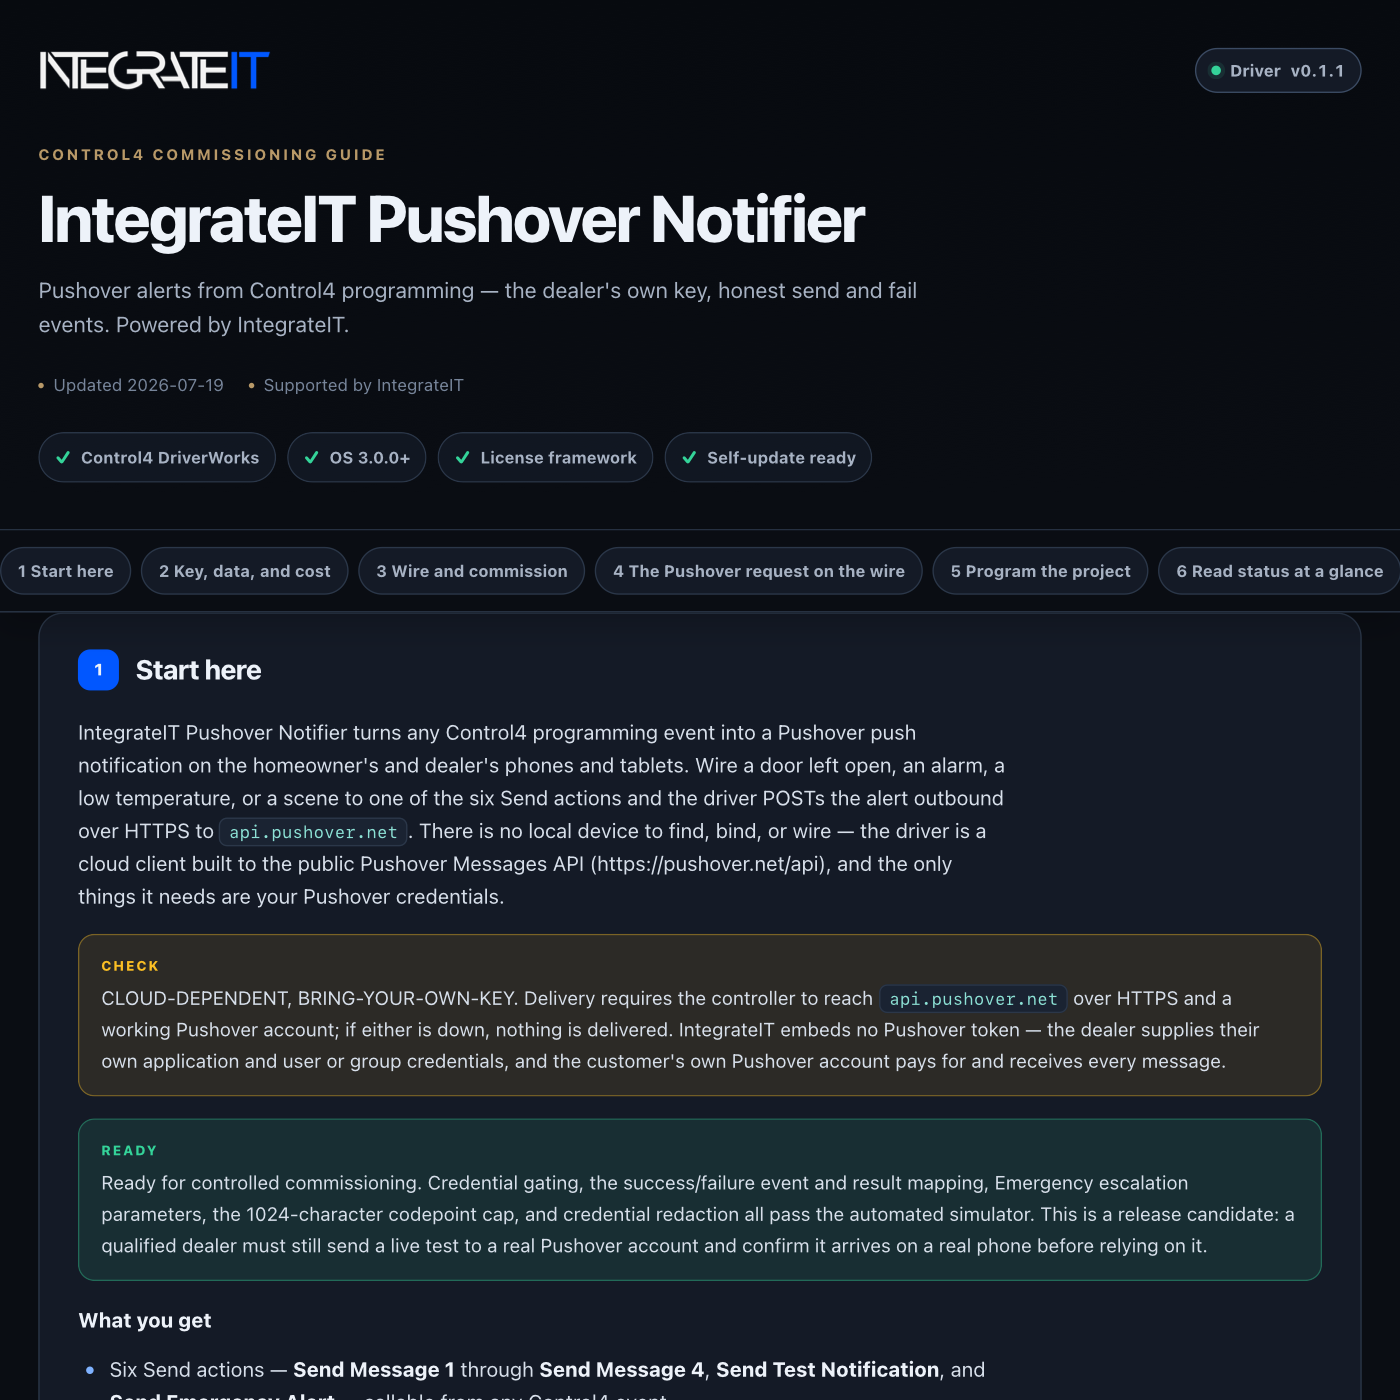
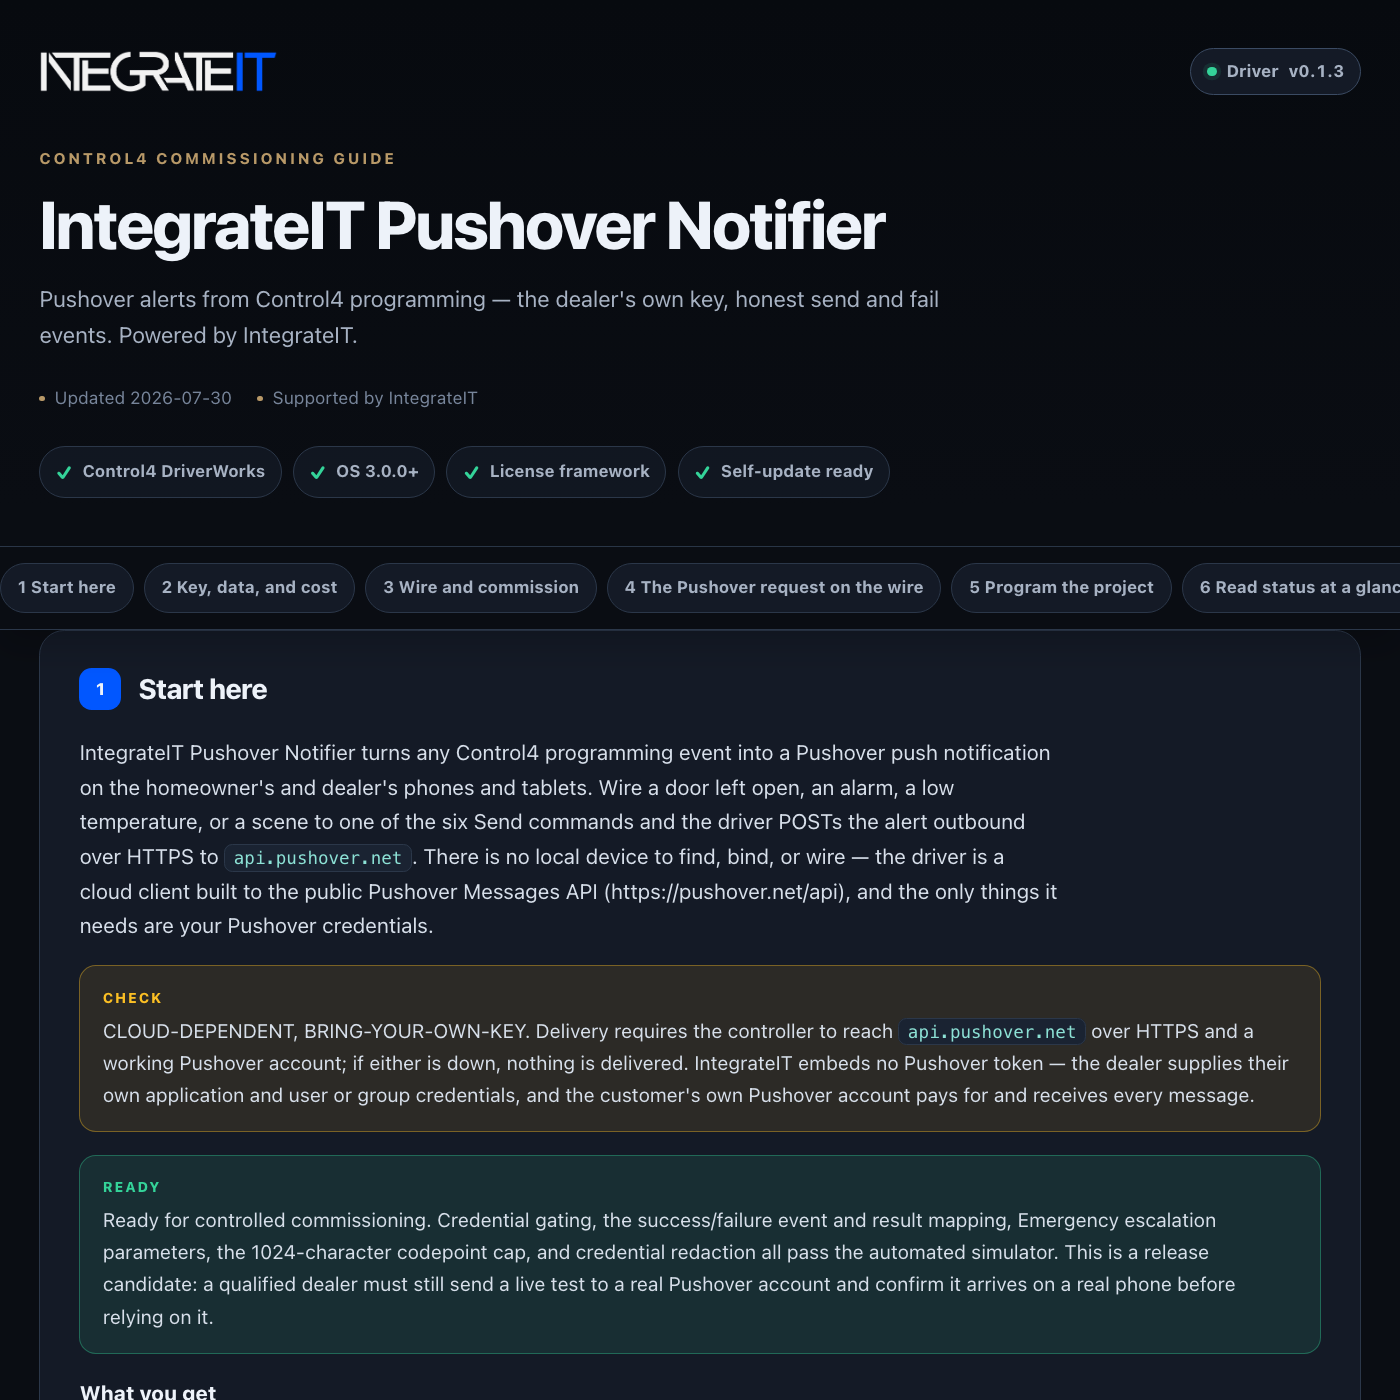
control4: publish driver channel (integrateit_push_pushover 0.1.4)

diff --git a/control4/integrateit_push_pushover/documentation.html b/control4/integrateit_push_pushover/documentation.html
@@ -179,13 +179,13 @@ td code{white-space:normal}
     <div class="wrap">
       <div class="brandbar">
[1 lines of base64/hex data omitted]
-        <span class="version"><span class="word">Driver</span> v0.1.3</span>
+        <span class="version"><span class="word">Driver</span> v0.1.4</span>
       </div>
       <p class="eyebrow">Control4 commissioning guide</p>
       <h1>IntegrateIT Pushover Notifier</h1>
       <p class="sub">Pushover alerts from Control4 programming — the dealer's own key, honest send and fail events. Powered by IntegrateIT.</p>
       <div class="meta">
-        <span>Updated 2026-07-30</span>
+        <span>Updated 2026-07-31</span>
         <span>Supported by IntegrateIT</span>
       </div>
       <div class="readiness" aria-label="Driver capabilities">
@@ -204,12 +204,12 @@ td code{white-space:normal}
   <main class="wrap">
     <section class="card" id="overview" data-card="overview">
   <h2><span class="n">1</span> Start here</h2>
-  <p>IntegrateIT Pushover Notifier turns any Control4 programming event into a Pushover push notification on the homeowner's and dealer's phones and tablets. Wire a door left open, an alarm, a low temperature, or a scene to one of the six Send actions and the driver POSTs the alert outbound over HTTPS to <code>api.pushover.net</code>. There is no local device to find, bind, or wire — the driver is a cloud client built to the public Pushover Messages API (https://pushover.net/api), and the only things it needs are your Pushover credentials.</p>
+  <p>IntegrateIT Pushover Notifier turns any Control4 programming event into a Pushover push notification on the homeowner's and dealer's phones and tablets. Wire a door left open, an alarm, a low temperature, or a scene to one of the six Send commands and the driver POSTs the alert outbound over HTTPS to <code>api.pushover.net</code>. There is no local device to find, bind, or wire — the driver is a cloud client built to the public Pushover Messages API (https://pushover.net/api), and the only things it needs are your Pushover credentials.</p>
   <div class="note warn">CLOUD-DEPENDENT, BRING-YOUR-OWN-KEY. Delivery requires the controller to reach <code>api.pushover.net</code> over HTTPS and a working Pushover account; if either is down, nothing is delivered. IntegrateIT embeds no Pushover token — the dealer supplies their own application and user or group credentials, and the customer's own Pushover account pays for and receives every message.</div>
   <div class="note good">Ready for controlled commissioning. Credential gating, the success/failure event and result mapping, Emergency escalation parameters, the 1024-character codepoint cap, and credential redaction all pass the automated simulator. This is a release candidate: a qualified dealer must still send a live test to a real Pushover account and confirm it arrives on a real phone before relying on it.</div>
   <p><b>What you get</b></p>
   <ul>
-    <li>Six Send actions — <b>Send Message 1</b> through <b>Send Message 4</b>, <b>Send Test Notification</b>, and <b>Send Emergency Alert</b> — callable from any Control4 event</li>
+    <li>Six sends — <b>Send Message 1</b> through <b>Send Message 4</b>, <b>Send Test Notification</b>, and <b>Send Emergency Alert</b> — each published twice: as a Composer <b>programming command</b> you wire to any Control4 event, and as an <b>Actions tab</b> button you can click while commissioning</li>
     <li>Four saved message slots — <b>Message 1 Title</b> / <b>Message 1 Body</b> through <b>Message 4 Title</b> / <b>Message 4 Body</b> — with a <b>Default Title</b> fallback when a slot's title is blank</li>
     <li>Five priority levels (<b>Lowest</b>, <b>Low</b>, <b>Normal</b>, <b>High</b>, <b>Emergency</b>) selected once in <b>Default Priority</b>, and one <b>Default Sound</b> applied to every send</li>
     <li>Emergency (priority 2) escalation that repeats until acknowledged, tuned by <b>Emergency Retry (s)</b> and <b>Emergency Expire (s)</b></li>
@@ -226,7 +226,7 @@ td code{white-space:normal}
     <li><b>Whose key.</b> The dealer registers a Pushover application to get an <b>Application API Token</b> and copies a <b>User or Group Key</b> for the recipients. Both are 30-character letters-and-digits strings, stored as password properties, and validated before every send. IntegrateIT ships no credential of its own.</li>
     <li><b>What leaves the LAN.</b> Each Send makes one outbound HTTPS POST to <code>api.pushover.net</code> carrying the token, the user or group key, the message body, the title, the numeric priority, the sound, and — for Emergency only — the retry and expire values. The message text you configure transits Pushover's servers to reach the phones. Nothing else from the project is sent: no other device state, no Control4 credentials, no project identity.</li>
     <li><b>Who pays.</b> The customer's own Pushover account. Pushover's free tier allows 10,000 messages per user per month; anything beyond that is the account holder's concern, not this driver's.</li>
-    <li><b>What "Sent" means.</b> Success is strictly HTTP 200 with <code>"status":1</code> in the response — Pushover *accepted* the message. <b>Last Notification</b> reads <code>Sent</code> at that point. That is not proof the phone displayed it, that Do Not Disturb let it through, or that a person read it; the accept response carries none of that and this driver claims none of it. For an Emergency alert, <code>Sent</code> likewise does not mean acknowledged — only Pushover's own app tracks the acknowledgement that stops the re-alerts. Anything claiming delivery-to-eyeballs would be faking it.</li>
+    <li><b>What "Sent" means.</b> Success is strictly HTTP 200 with <code>"status":1</code> in the response — Pushover <i>accepted</i> the message. <b>Last Notification</b> reads <code>Sent</code> at that point. That is not proof the phone displayed it, that Do Not Disturb let it through, or that a person read it; the accept response carries none of that and this driver claims none of it. For an Emergency alert, <code>Sent</code> likewise does not mean acknowledged — only Pushover's own app tracks the acknowledgement that stops the re-alerts. Anything claiming delivery-to-eyeballs would be faking it.</li>
     <li><b>Redaction.</b> Credentials are sent but never logged. Debug output carries only the title, the numeric priority, and the encoded byte count. The driver's configuration print reports token and key presence and format validity, never the values themselves.</li>
   </ul>
 </section>
@@ -238,7 +238,7 @@ td code{white-space:normal}
     <li>Add <b>IntegrateIT Pushover Notifier</b> to any room — there is no binding or serial port to wire. Paste the token into <b>Application API Token</b> and the recipient key into <b>User or Group Key</b>. Both are stored as passwords. The driver Status line reads <code>Ready</code> once both are present and well-formed, or <code>Credentials look malformed (expect 30 letters/digits)</code> if a paste is the wrong length or contains a stray character.</li>
     <li>Confirm the controller can reach the internet. This driver needs outbound HTTPS to <code>api.pushover.net</code>; there is nothing to reach on the LAN.</li>
     <li>Press <b>Send Test Notification</b>. A test push should arrive within seconds; <b>Last Notification</b> reads <code>Sent</code> on success or a short reason on failure. Watching that push land on a real phone is the step that proves the whole path — credentials, internet, and the recipient key — works.</li>
-    <li>Fill in the four slots (<b>Message 1–4 Title / Body</b>) with the alerts you want, then wire each Control4 event to the matching <b>Send Message N</b> action. A blank title falls back to <b>Default Title</b>; a blank body fails locally as an empty message rather than sending nothing.</li>
+    <li>Fill in the four slots (<b>Message 1–4 Title / Body</b>) with the alerts you want, then in Programming wire each Control4 event to the matching <b>Send Message N</b> command. A blank title falls back to <b>Default Title</b>; a blank body fails locally as an empty message rather than sending nothing.</li>
     <li>For a critical alert, use <b>Send Emergency Alert</b>. It reuses <b>Message 1 Body</b> at priority 2 and repeats until acknowledged; if Message 1 Body is blank it sends a built-in default so the most critical alert always delivers. Tune <b>Emergency Retry (s)</b> and <b>Emergency Expire (s)</b> for how often and how long Pushover re-alerts.</li>
   </ol>
   <div class="note">Setting <b>Default Priority</b> to Emergency makes every ordinary slot send repeat until acknowledged. <b>Send Test Notification</b> deliberately caps itself to High in that case, so commissioning never nags the homeowner's phone — but your wired slots will, so choose Emergency deliberately.</div>
@@ -260,11 +260,18 @@ token=&lt;app&gt;&amp;user=&lt;key&gt;&amp;message=&lt;text&gt;&amp;title=&lt;t&
     <tr><td><code>retry</code> / <code>expire</code></td><td><b>Emergency Retry (s)</b> / <b>Emergency Expire (s)</b></td><td>Appended only for priority 2</td></tr>
   </table>
   <p>Success is strictly HTTP 200 with a <code>"status":1</code> body → <b>Notification Sent</b> and <b>Last Notification</b> <code>Sent</code>. Any other code or status fails: <b>Notification Failed</b> fires and <b>Last Notification</b> reads <code>Failed: HTTP &lt;code&gt;</code>. Two failures never reach the wire — the driver catches them locally and records <code>Failed: invalid credentials</code> (a token or key that is not 30 letters/digits) or <code>Failed: empty message</code>, so a guaranteed rejection never burns a round-trip.</p>
-  <p>Emergency (priority 2) is the one path that carries <code>retry</code> and <code>expire</code>, which the API requires there. <b>Emergency Retry (s)</b> clamps to 30–300 and <b>Emergency Expire (s)</b> to 60–10800; expire is additionally raised to at least the retry value, because an expire below retry would let Pushover re-alert only once and defeat the escalation. The message cap is 1024 UTF-8 *codepoints*, truncated on a codepoint boundary — never mid-character — so non-Latin text is neither corrupted nor silently over-truncated.</p>
+  <p>Emergency (priority 2) is the one path that carries <code>retry</code> and <code>expire</code>, which the API requires there. <b>Emergency Retry (s)</b> clamps to 30–300 and <b>Emergency Expire (s)</b> to 60–10800; expire is additionally raised to at least the retry value, because an expire below retry would let Pushover re-alert only once and defeat the escalation. The message cap is 1024 UTF-8 <i>codepoints</i>, truncated on a codepoint boundary — never mid-character — so non-Latin text is neither corrupted nor silently over-truncated.</p>
 </section>
 
 <section class="card" id="programming" data-card="programming">
   <h2><span class="n">5</span> Program the project</h2>
+  <p>Each send exists in two places, and they run the same code. The <b>command</b> is what Composer Programming issues when your event fires; the identically named <b>Actions tab</b> button is what you click by hand while commissioning. Wire the command; use the button to prove it.</p>
+  <table>
+    <tr><th>Command (Programming)</th><th>What it sends</th></tr>
+    <tr><td>Send Message 1 … Send Message 4</td><td>The matching slot — <b>Message N Body</b> with <b>Message N Title</b> (or <b>Default Title</b> when the title is blank) — at <b>Default Priority</b></td></tr>
+    <tr><td>Send Test Notification</td><td>The <b>Test Message</b> body, capped at High priority even when <b>Default Priority</b> is Emergency</td></tr>
+    <tr><td>Send Emergency Alert</td><td>The <b>Message 1</b> slot forced to priority 2, with <code>retry</code>/<code>expire</code>, re-alerting until acknowledged in the Pushover app</td></tr>
+  </table>
   <table>
     <tr><th>Event</th><th>Fires when</th></tr>
     <tr><td><code>Notification Sent</code></td><td>Pushover accepted a notification (HTTP 200, status 1)</td></tr>
@@ -280,7 +287,7 @@ token=&lt;app&gt;&amp;user=&lt;key&gt;&amp;message=&lt;text&gt;&amp;title=&lt;t&
     <li><b>When the security panel alarms → Send Emergency Alert.</b> Priority 2 re-alerts the phone until someone acknowledges it in the Pushover app — the right tool for an alert that must not be missed.</li>
     <li><b>When Notification Failed fires → light a fault indicator or fall back to another channel.</b> <code>LAST_STATUS</code> and <b>Last Notification</b> carry the reason (<code>HTTP 429</code>, <code>invalid credentials</code>, <code>empty message</code>) so programming can branch on why a critical alert did not go out.</li>
   </ul>
-  <p>The four <b>Send Message 1</b>–<b>Send Message 4</b> actions carry no per-action priority: they always send at whatever <b>Default Priority</b> holds. <b>Send Emergency Alert</b> always forces priority 2; <b>Send Test Notification</b> never escalates past High. Sends are gated by the license: with <b>License Enforcement</b> set to Strict an unlicensed controller sends nothing, while the default Lenient mode allows commissioning and keeps the nag on <b>License Status</b>.</p>
+  <p>The four <b>Send Message 1</b>–<b>Send Message 4</b> sends carry no per-send priority: they always go out at whatever <b>Default Priority</b> holds. <b>Send Emergency Alert</b> always forces priority 2; <b>Send Test Notification</b> never escalates past High. Sends are gated by the license: with <b>License Enforcement</b> set to Strict an unlicensed controller sends nothing, while the default Lenient mode allows commissioning and keeps the nag on <b>License Status</b>.</p>
 </section>
 
 <section class="card" id="status" data-card="status">
@@ -316,7 +323,7 @@ token=&lt;app&gt;&amp;user=&lt;key&gt;&amp;message=&lt;text&gt;&amp;title=&lt;t&
   <p>Lenient mode allows commissioning without an activated key and keeps <b>License Status</b> visible. Strict mode blocks all sends until the Ops Portal has minted and validated a key for that controller. Installing this package does not itself mint or activate a controller license.</p>
 <section class="card" id="reference" data-card="reference">
   <h2><span class="n">R</span> Reference</h2>
-  <p>Generated from the driver manifest at build time — always matches this build (v0.1.3).</p>
+  <p>Generated from the driver manifest at build time — always matches this build (v0.1.4).</p>
   <h3>Properties</h3>
   <table>
     <tr><th>Property</th><th>Type</th><th>Default</th><th>Description</th></tr>
@@ -352,6 +359,16 @@ token=&lt;app&gt;&amp;user=&lt;key&gt;&amp;message=&lt;text&gt;&amp;title=&lt;t&
     <tr><td><code>Automatic Update Check</code></td><td>LIST</td><td><code>Daily</code></td><td>One of: Daily · Off</td></tr>
     <tr><td><code>Update Available</code> <span class="pill blue">read-only</span></td><td>STRING</td><td><code>None</code></td><td></td></tr>
     <tr><td><code>About</code> <span class="pill blue">read-only</span></td><td>STRING</td><td><code>Powered by IntegrateIT - integrateit.tech</code></td><td></td></tr>
+  </table>
+  <h3>Programming commands</h3>
+  <table>
+    <tr><th>Command</th><th>What it does</th></tr>
+    <tr><td><code>Send Message 1</code></td><td>Send saved slot 1 (Message 1 Title / Message 1 Body) at Default Priority.</td></tr>
+    <tr><td><code>Send Message 2</code></td><td>Send saved slot 2 (Message 2 Title / Message 2 Body) at Default Priority.</td></tr>
+    <tr><td><code>Send Message 3</code></td><td>Send saved slot 3 (Message 3 Title / Message 3 Body) at Default Priority.</td></tr>
+    <tr><td><code>Send Message 4</code></td><td>Send saved slot 4 (Message 4 Title / Message 4 Body) at Default Priority.</td></tr>
+    <tr><td><code>Send Test Notification</code></td><td>Send the Test Message body. Capped at High priority even when Default Priority is Emergency, so a test never re-alerts until acknowledged.</td></tr>
+    <tr><td><code>Send Emergency Alert</code></td><td>Send the Message 1 slot forced to Emergency (priority 2), which re-alerts per Emergency Retry (s) until someone acknowledges it in the Pushover app. Falls back to a built-in body when Message 1 Body is blank.</td></tr>
   </table>
   <h3>Actions (Composer Actions tab)</h3>
   <table>
@@ -442,7 +459,9 @@ token=&lt;app&gt;&amp;user=&lt;key&gt;&amp;message=&lt;text&gt;&amp;title=&lt;t&
     <section class="card" id="changelog" data-card="changelog">
   <h2><span class="n">V</span> Version history</h2>
   <div class="chg">
-    <div class="rel"><b>v0.1.3</b> <span class="pill green">current</span><span class="d">2026-07-30</span>
+    <div class="rel"><b>v0.1.4</b> <span class="pill green">current</span><span class="d">2026-07-31</span>
+      <ul><li>The six sends shipped as Composer ACTIONS only, so Composer Programming could not fire them: an &lt;action&gt; is an Actions-tab button, not a programming command, and this driver's entire purpose is "a programming event pushes an alert". Every documented recipe ("when a door contact reports left open -&gt; Send Message 1") issued a name OnDeviceCommand did not know, and nothing was sent. Each send is now also declared as a programming command and dispatches under both spellings — the command name Director sends from programming and the SEND_* string the Actions-tab button sends.</li><li>Documentation rendering: emphasis written as *emphasis* in the source now renders as emphasis in the packaged Documentation tab instead of shipping as literal asterisks. Protocol strings that legitimately contain a star, quoted inside code, stay exactly as written.</li></ul></div>
+    <div class="rel"><b>v0.1.3</b><span class="d">2026-07-30</span>
       <ul><li>A numeric property containing nan or inf (possible through a hand-edited project file) passed tonumber, defeated every range clamp (all nan comparisons are false), and could reach a timer interval or the wire. Numeric properties now fall back to their documented default when non-finite, and the transmit chokepoint refuses a non-finite value by name.</li><li>A corrupted retry interval meant an EMERGENCY-priority alert was never delivered - the retry timer armed with a nan interval and never fired. On a driver whose whole job is that alert, this was the worst possible silent failure.</li><li>Adds the fleet-standard Run Diagnostics and Run Self-Test dealer actions: read-only, license-independent, cached-state honesty. Diagnostics reports what the driver has already observed - never probing the network, never printing a secret. Self-Test proves the shared layer locally and ends PASS or FAIL.</li></ul></div>
     <div class="rel"><b>v0.1.2</b><span class="d">2026-07-26</span>
       <ul><li>Documentation rebuilt to the IntegrateIT commissioning-guide standard: uniform sections, honest contracts, verified claim-by-claim against the code.</li></ul></div>

diff --git a/control4/integrateit_push_pushover/CHANGELOG.md b/control4/integrateit_push_pushover/CHANGELOG.md
@@ -1,5 +1,9 @@
 # Changelog — IntegrateIT Pushover Notifier
 
+## [0.1.4] - 2026-07-31
+- The six sends shipped as Composer ACTIONS only, so Composer Programming could not fire them: an <action> is an Actions-tab button, not a programming command, and this driver's entire purpose is "a programming event pushes an alert". Every documented recipe ("when a door contact reports left open -> Send Message 1") issued a name OnDeviceCommand did not know, and nothing was sent. Each send is now also declared as a programming command and dispatches under both spellings — the command name Director sends from programming and the SEND_* string the Actions-tab button sends.
+- Documentation rendering: emphasis written as *emphasis* in the source now renders as emphasis in the packaged Documentation tab instead of shipping as literal asterisks. Protocol strings that legitimately contain a star, quoted inside code, stay exactly as written.
+
 ## [0.1.3] - 2026-07-30
 - A numeric property containing nan or inf (possible through a hand-edited project file) passed tonumber, defeated every range clamp (all nan comparisons are false), and could reach a timer interval or the wire. Numeric properties now fall back to their documented default when non-finite, and the transmit chokepoint refuses a non-finite value by name.
 - A corrupted retry interval meant an EMERGENCY-priority alert was never delivered - the retry timer armed with a nan interval and never fired. On a driver whose whole job is that alert, this was the worst possible silent failure.
